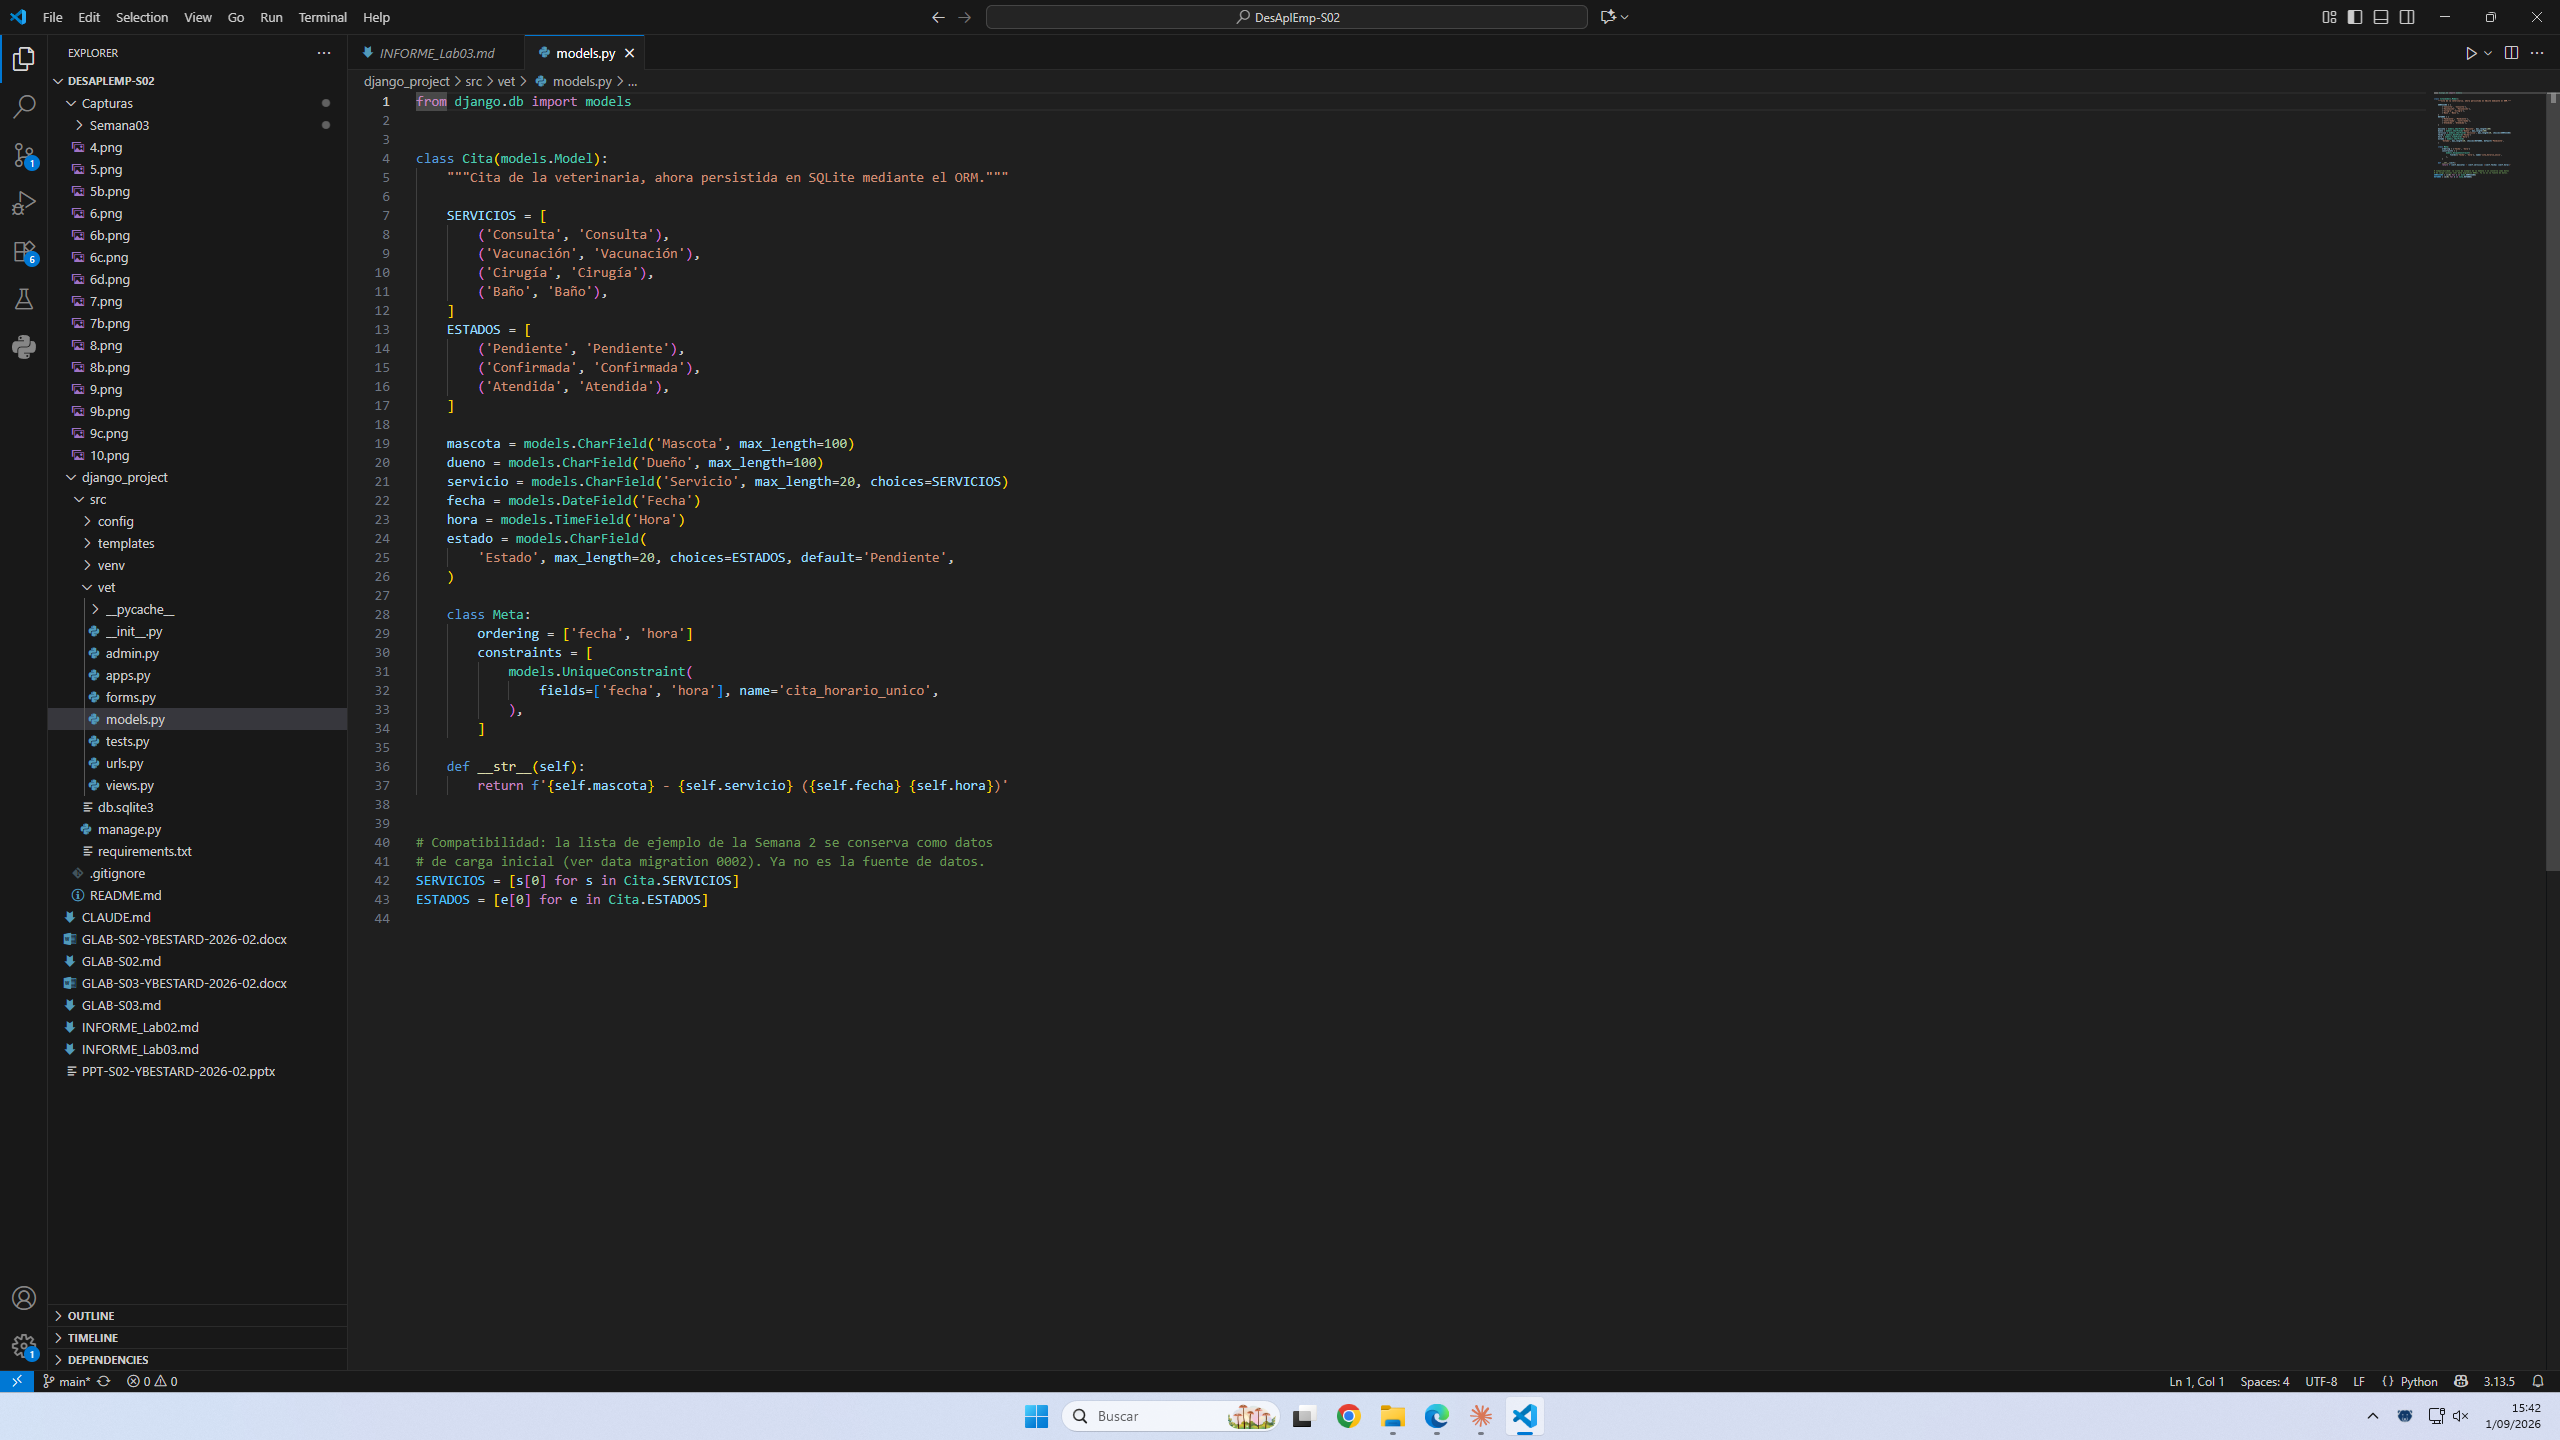
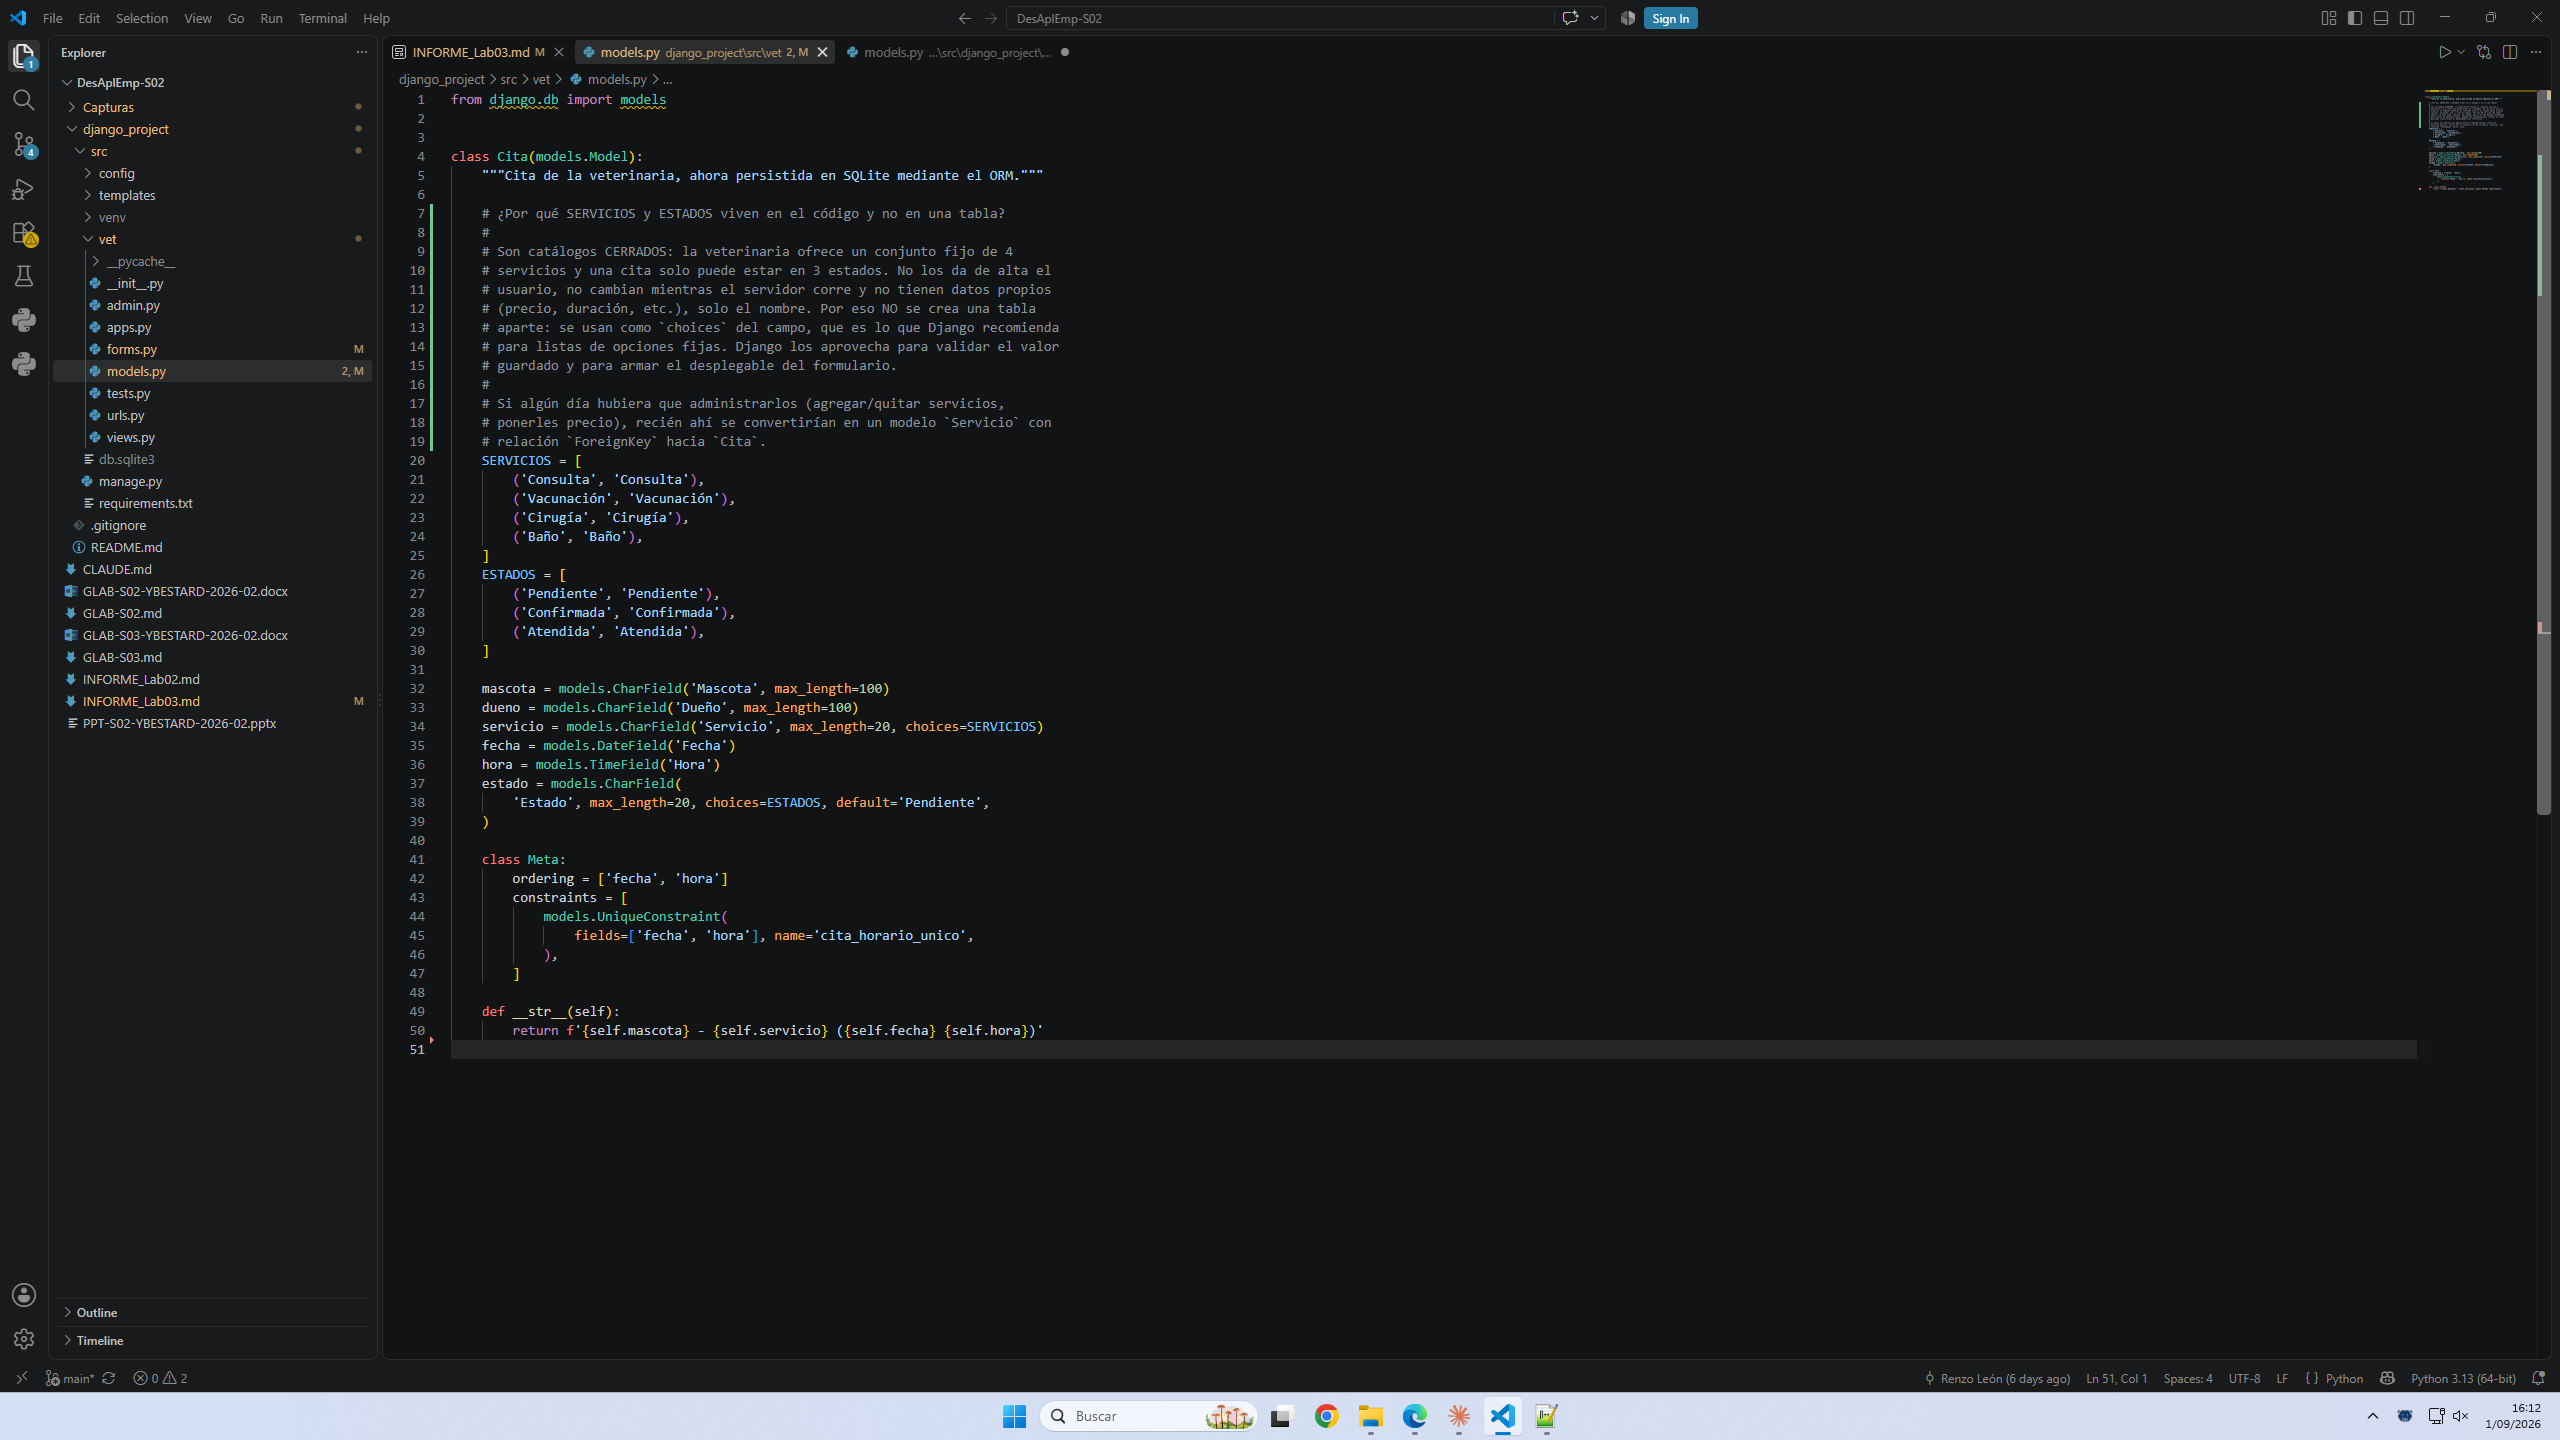
Lab 03 - Ejercicio 2: justificar SERVICIOS y ESTADOS (obs. del profesor)
- vet/models.py: comentario que explica por que servicio y estado son
  `choices` en el codigo y no una tabla propia (catalogos cerrados, sin
  datos propios, no administrables por el usuario). Se elimina la
  duplicacion de esas listas a nivel de modulo, que estaba sin uso.
- vet/forms.py: CitaForm toma las opciones de Cita.SERVICIOS y la
  validacion de horario consulta la tabla en vez de la lista en memoria.
- INFORME_Lab03.md: justificacion agregada en la seccion del Ejercicio 2.
- Capturas/Semana03/ej2_models.png actualizada.

diff --git a/django_project/src/vet/models.py b/django_project/src/vet/models.py
@@ -4,6 +4,19 @@ from django.db import models
 class Cita(models.Model):
     """Cita de la veterinaria, ahora persistida en SQLite mediante el ORM."""
 
+    # ¿Por qué SERVICIOS y ESTADOS viven en el código y no en una tabla?
+    #
+    # Son catálogos CERRADOS: la veterinaria ofrece un conjunto fijo de 4
+    # servicios y una cita solo puede estar en 3 estados. No los da de alta el
+    # usuario, no cambian mientras el servidor corre y no tienen datos propios
+    # (precio, duración, etc.), solo el nombre. Por eso NO se crea una tabla
+    # aparte: se usan como `choices` del campo, que es lo que Django recomienda
+    # para listas de opciones fijas. Django los aprovecha para validar el valor
+    # guardado y para armar el desplegable del formulario.
+    #
+    # Si algún día hubiera que administrarlos (agregar/quitar servicios,
+    # ponerles precio), recién ahí se convertirían en un modelo `Servicio` con
+    # relación `ForeignKey` hacia `Cita`.
     SERVICIOS = [
         ('Consulta', 'Consulta'),
         ('Vacunación', 'Vacunación'),
@@ -35,9 +48,3 @@ class Cita(models.Model):
 
     def __str__(self):
         return f'{self.mascota} - {self.servicio} ({self.fecha} {self.hora})'
-
-
-# Compatibilidad: la lista de ejemplo de la Semana 2 se conserva como datos
-# de carga inicial (ver data migration 0002). Ya no es la fuente de datos.
-SERVICIOS = [s[0] for s in Cita.SERVICIOS]
-ESTADOS = [e[0] for e in Cita.ESTADOS]

diff --git a/django_project/src/vet/forms.py b/django_project/src/vet/forms.py
@@ -1,17 +1,16 @@
 from django import forms
 
-from .models import SERVICIOS, citas
+from .models import Cita
 
 
 class CitaForm(forms.Form):
     """Formulario para registrar una nueva cita de la veterinaria."""
 
+    # Las opciones salen del catálogo del modelo (Cita.SERVICIOS): no se
+    # repiten aquí para no tener la misma lista en dos sitios.
     mascota = forms.CharField(label='Mascota', max_length=100)
     dueno = forms.CharField(label='Dueño', max_length=100)
-    servicio = forms.ChoiceField(
-        label='Servicio',
-        choices=[(servicio, servicio) for servicio in SERVICIOS],
-    )
+    servicio = forms.ChoiceField(label='Servicio', choices=Cita.SERVICIOS)
     fecha = forms.DateField(
         label='Fecha',
         widget=forms.DateInput(attrs={'type': 'date'}),
@@ -28,7 +27,7 @@ class CitaForm(forms.Form):
         hora = datos.get('hora')
 
         if fecha and hora:
-            ocupado = any(c.fecha == fecha and c.hora == hora for c in citas)
+            ocupado = Cita.objects.filter(fecha=fecha, hora=hora).exists()
             if ocupado:
                 raise forms.ValidationError(
                     'Ya existe una cita agendada para esa fecha y hora.'

diff --git a/INFORME_Lab03.md b/INFORME_Lab03.md
@@ -33,10 +33,26 @@ SQLite y operarlo mediante el ORM.
 |-------|-------------|-------|
 | `mascota` | `CharField(max_length=100)` | Texto corto |
 | `dueno` | `CharField(max_length=100)` | Texto corto |
-| `servicio` | `CharField(max_length=20, choices=SERVICIOS)` | Lista cerrada: Consulta / Vacunación / Cirugía / Baño |
+| `servicio` | `CharField(max_length=20, choices=SERVICIOS)` | Catálogo `Cita.SERVICIOS`: Consulta / Vacunación / Cirugía / Baño |
 | `fecha` | `DateField` | Fecha de la cita |
 | `hora` | `TimeField` | Hora de la cita |
-| `estado` | `CharField(max_length=20, choices=ESTADOS, default='Pendiente')` | Pendiente / Confirmada / Atendida |
+| `estado` | `CharField(max_length=20, choices=ESTADOS, default='Pendiente')` | Catálogo `Cita.ESTADOS`: Pendiente / Confirmada / Atendida |
+
+**Observación del profesor — por qué `SERVICIOS` y `ESTADOS` son código y no una
+tabla.** El profesor pidió justificarlo con un comentario en el propio código
+(hecho en `models.py`). El razonamiento:
+
+- Son **catálogos cerrados**: 4 servicios y 3 estados fijos, definidos por la
+  veterinaria.
+- **No los administra el usuario** ni cambian mientras el servidor corre.
+- **No tienen datos propios** (precio, duración…), solo el nombre.
+
+Por eso se usan como `choices` del campo —la forma recomendada por Django para
+listas de opciones fijas— y no como una tabla aparte, que solo añadiría un JOIN
+en cada consulta sin aportar nada. Si en el futuro hubiera que gestionarlos
+(agregar servicios, ponerles precio), recién ahí se convertirían en un modelo
+`Servicio` con `ForeignKey` hacia `Cita`. También se eliminó una duplicación de
+esas listas a nivel de módulo que había quedado sin uso.
 
 **`class Meta`:**
 
@@ -50,6 +66,11 @@ en el shell.
 
 ```python
 class Cita(models.Model):
+    # ¿Por qué SERVICIOS y ESTADOS viven en el código y no en una tabla?
+    # Son catálogos cerrados (4 servicios, 3 estados), no los da de alta el
+    # usuario, no cambian en ejecución y no tienen datos propios: por eso se
+    # usan como `choices` del campo y no como una tabla aparte. Si hubiera que
+    # administrarlos, se pasarían a un modelo `Servicio` con `ForeignKey`.
     SERVICIOS = [('Consulta', 'Consulta'), ('Vacunación', 'Vacunación'),
                  ('Cirugía', 'Cirugía'), ('Baño', 'Baño')]
     ESTADOS = [('Pendiente', 'Pendiente'), ('Confirmada', 'Confirmada'),
@@ -74,7 +95,9 @@ class Cita(models.Model):
         return f'{self.mascota} - {self.servicio} ({self.fecha} {self.hora})'
 ```
 
-> A partir de este cambio, `views.py` y `forms.py` todavía referencian la lista
-> `citas` de la Semana 2, por lo que el servidor no arranca hasta rehacer la
-> consulta (Ejercicio 4) y el registro (Ejercicio 5) con el ORM. La estructura
-> de la tabla se crea en el Ejercicio 3.
+El formulario (`vet/forms.py`) toma sus opciones de `Cita.SERVICIOS` en vez de
+tener otra copia de la lista.
+
+> `views.py` todavía referencia la lista `citas` de la Semana 2, por lo que el
+> servidor no arranca hasta rehacer la consulta (Ejercicio 4) y el registro
+> (Ejercicio 5) con el ORM. La estructura de la tabla se crea en el Ejercicio 3.
